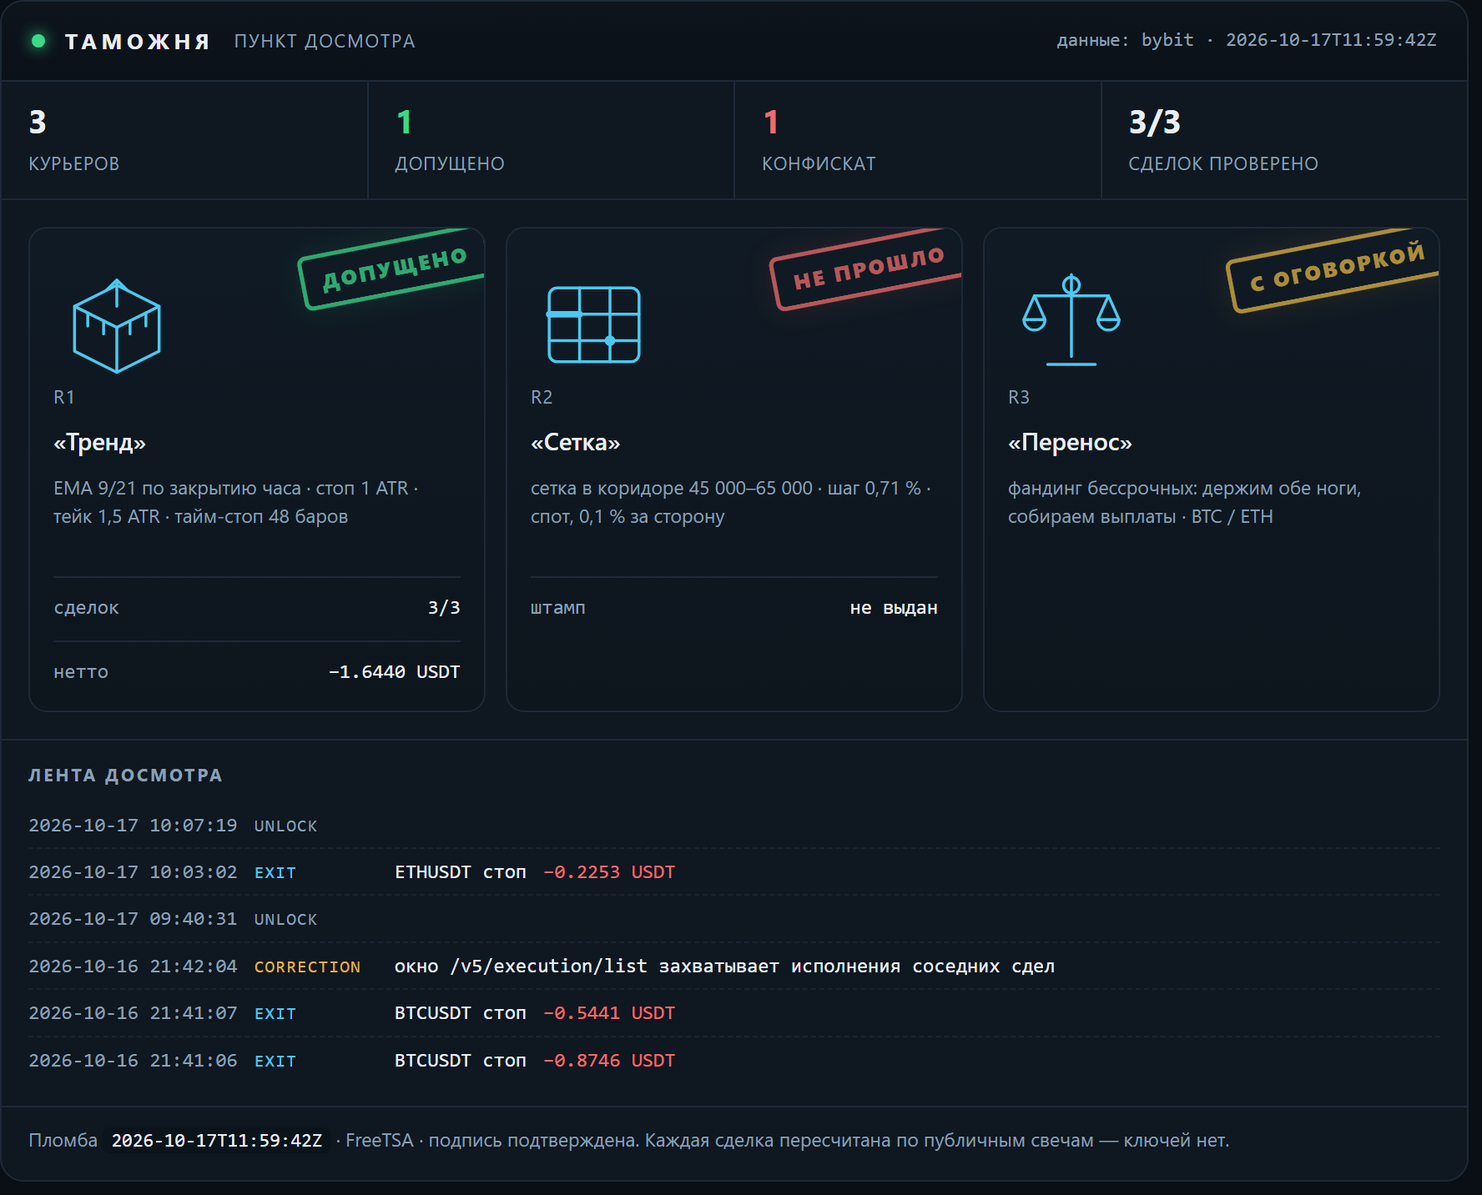
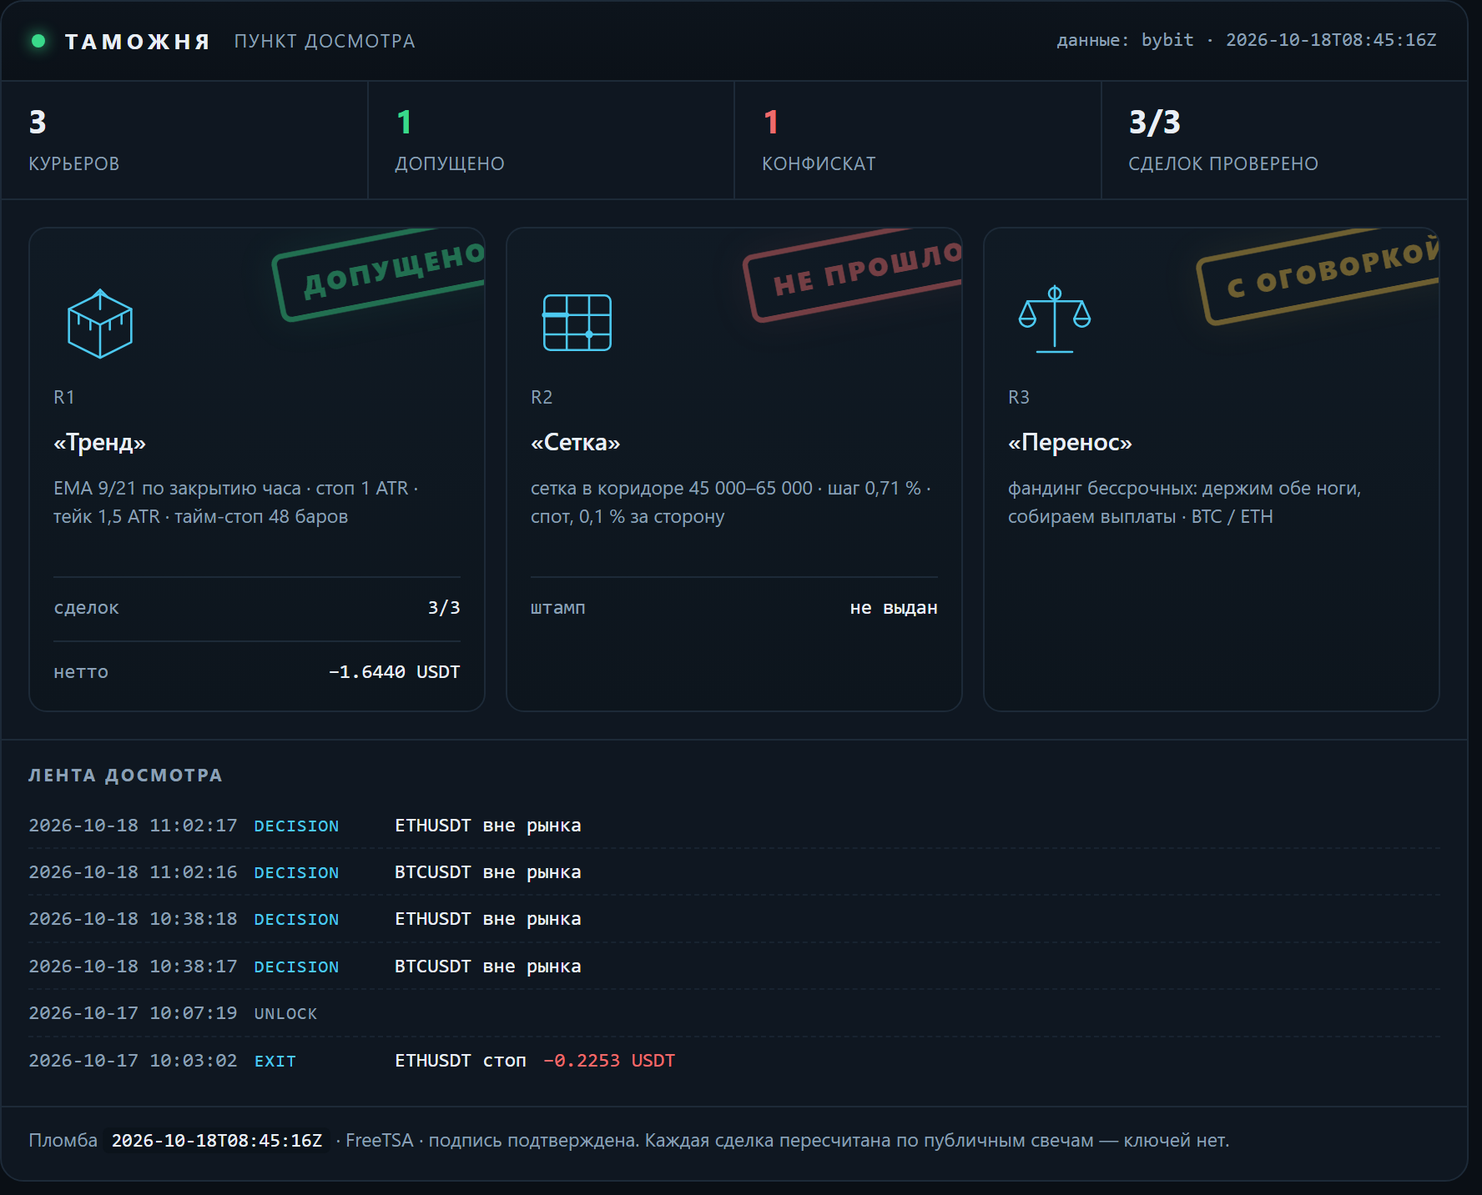
lab: таможня — свежие числа досмотра

diff --git a/docs/customs.html b/docs/customs.html
@@ -16,7 +16,7 @@
   <h1><a href="index.html">Gramwright Lab</a></h1>
   <p>Журнал проверки торговых гипотез: что проверяли, что вышло по факту, сколько съели издержки. Числа берутся из журнала стенда. Не инвестиционная рекомендация.</p>
 </header>
-<h1>Таможня</h1><p class="intro">Пункт досмотра заявленных результатов. Стратегии приезжают с грузом обещаний, и каждая проходит проверку по публичным данным биржи: цены существуют, комиссии по тарифу, нетто сходится. Что прошло — получает штамп. Что не прошло — в конфискат, с причиной. Штамп означает «записи подлинные», а не «стратегия прибыльна».</p><p><img src="img/customs.png" alt="Терминал досмотра: три курьера, штампы, лента событий" style="width:100%;height:auto;border:1px solid var(--line);border-radius:10px"></p><p class="c-note">Сверху — тот же терминал, что собирается из журналов: счётчики, эмблемы курьеров, штампы и лента последних событий. Ниже — то же самое текстом, чтобы читалось с телефона и индексировалось поиском.</p><article><h2>R1 «Тренд» <span class="verdict">— <span class="c-ok">допущено</span></span></h2><p><strong>Правило:</strong> EMA 9/21 по закрытию часа · стоп 1 ATR · тейк 1,5 ATR · тайм-стоп 48 баров</p><p><strong>Декларация:</strong> Заявлено до прогона: держать 30 сделок, лимит нотионала 10 % от счёта, стоп дня −1 %. Прибыль не заявлялась — это важно: курьер не обещал доход.</p><p><strong>Проверено по публичным свечам, без ключей:</strong> 3 из 3 сделок. Сумма нетто −1.6440 USDT.</p><ul class="c-chk"><li class="y">BTCUSDT: нетто −0.8746 USDT · комиссии 0.0901 · проверено · с поправкой</li><li class="y">BTCUSDT: нетто −0.5441 USDT · комиссии 0.0896 · проверено</li><li class="y">ETHUSDT: нетто −0.2253 USDT · комиссии 0.0266 · проверено</li></ul><p class="tags">журнал sha256 d5428174df17a566… · проверяльщик verify-1</p><p class="c-note">Штамп означает: записи подлинные, а не что стратегия прибыльна. Курьер в минусе, и минус тоже стоит на штампе — иначе это была бы не проверка, а реклама.</p><p class="tags">источник: verify-report.json</p></article><article><h2>R2 «Сетка» <span class="verdict">— <span class="c-bad">не прошло</span></span></h2><p><strong>Правило:</strong> сетка в коридоре 45 000–65 000 · шаг 0,71 % · спот, 0,1 % за сторону</p><p><strong>Декларация:</strong> Заявлено: «44 % урожая уходит бирже в виде комиссий». Кроме того — перевес над простым владением монетой.</p><p><strong>Что сошлось:</strong></p><ul class="c-chk"><li class="y">сами числа пересчитаны и воспроизводятся: коридор 45–65k был активен 23 % всей истории и 28 % последних двух лет</li></ul><p><strong>Что не сошлось:</strong></p><ul class="c-chk"><li class="n">44 % не подтвердилось: при шаге 0,71 % и тарифе 0,1 % комиссия съедает 28,3 % шага. Чтобы получить 44 %, нужен шаг 0,45 % — это около 80 уровней, а не 50</li><li class="n">от урожая доля комиссий 85,5 % за всю историю и 49,6 % за последние два года — тоже не 44 %</li><li class="n">перевес над владением посчитан на тарифе 0,055 %: при нём +1,32 п. п., на розничном 0,1 % — −0,72 п. п. То есть перевес исчезает</li><li class="n">семилетний тест стартовал в сентябре 2019 при биткоине около 10 000 — ниже коридора. Он говорит, что фиксированный коридор не подходит для периода, а не что сетка отстаёт</li></ul><p class="tags">источник: lab_grid.py, пересчёт 17.10.2026</p></article><article><h2>R3 «Перенос» <span class="verdict">— <span class="c-warn">с оговоркой</span></span></h2><p><strong>Правило:</strong> фандинг бессрочных: держим обе ноги, собираем выплаты · BTC / ETH</p><p><strong>Декларация:</strong> Заявлено: около 11,9 % в год от выплат фандинга при просадке выплатной кривой меньше 2 %.</p><p><strong>Что сошлось:</strong></p><ul class="c-chk"><li class="y">выплаты взяты из публичной истории биржи, ключей не нужно: BTC — 7 190 выплат с 25.03.2020, ETH — 6 561 с 21.10.2020</li><li class="y">сумма сходится: +83,4 % и +83,2 % за 6,6 и 6,0 года — те самые ~11,9 % в год</li><li class="y">худшая просадка выплатной кривой: −1,65 % и −1,97 %</li></ul><p><strong>Что не сошлось:</strong></p><ul class="c-chk"><li class="n">оговорка 1: премию сжали — 2021 год дал +38,3 %, 2026 — +1,96 %. Прошлое не повторяется</li><li class="n">оговорка 2: вход-выход стоит около 0,31 %, капитала нужно 1,2 от нотионала, текущий базис −0,082 % против входа</li><li class="n">оговорка 3: риск площадки. История FTX в этой же таблице выглядела так же прилично</li></ul><p class="tags">источник: публичная история фандинга Bybit, замер 17.10.2026</p></article><div class="c-conf"><h3>Конфискат</h3><p><strong>«Сетка»: заявленные 44 % комиссий не подтвердились.</strong> Досмотр показал 28,3 % от шага и 85,5 % от урожая — цифра хуже заявленной по форме, но лучше по смыслу: сетку убивает не размер шага, а то, что урожай почти весь уходит в комиссии. Это и вышло в выпуск — с поправкой, а не с красивой цифрой.</p></div><p class="c-note">Пломба: <code>2026-10-17T11:59:42Z</code> · нотариус FreeTSA · Oct 17 11:59:42 2026 GMT · подпись подтверждена. Манифест скрепляет отчёт проверки, журнал сделок и декларации курьеров: подменишь любую цифру — пломба перестанет сходиться.</p><p class="c-note">Досмотр идёт по публичным минутным свечам и публичной истории фандинга — ключей у проверяющего нет, и он может повторить проверку сам.</p><p class="c-note">Контент образовательный, не является инвестиционной рекомендацией. Торговля связана с риском потери капитала.</p>
+<h1>Таможня</h1><p class="intro">Пункт досмотра заявленных результатов. Стратегии приезжают с грузом обещаний, и каждая проходит проверку по публичным данным биржи: цены существуют, комиссии по тарифу, нетто сходится. Что прошло — получает штамп. Что не прошло — в конфискат, с причиной. Штамп означает «записи подлинные», а не «стратегия прибыльна».</p><p><img src="img/customs.png" alt="Терминал досмотра: три курьера, штампы, лента событий" style="width:100%;height:auto;border:1px solid var(--line);border-radius:10px"></p><p class="c-note">Сверху — тот же терминал, что собирается из журналов: счётчики, эмблемы курьеров, штампы и лента последних событий. Ниже — то же самое текстом, чтобы читалось с телефона и индексировалось поиском.</p><article><h2>R1 «Тренд» <span class="verdict">— <span class="c-ok">допущено</span></span></h2><p><strong>Правило:</strong> EMA 9/21 по закрытию часа · стоп 1 ATR · тейк 1,5 ATR · тайм-стоп 48 баров</p><p><strong>Декларация:</strong> Заявлено до прогона: держать 30 сделок, лимит нотионала 10 % от счёта, стоп дня −1 %. Прибыль не заявлялась — это важно: курьер не обещал доход.</p><p><strong>Проверено по публичным свечам, без ключей:</strong> 3 из 3 сделок. Сумма нетто −1.6440 USDT.</p><ul class="c-chk"><li class="y">BTCUSDT: нетто −0.8746 USDT · комиссии 0.0901 · проверено · с поправкой</li><li class="y">BTCUSDT: нетто −0.5441 USDT · комиссии 0.0896 · проверено</li><li class="y">ETHUSDT: нетто −0.2253 USDT · комиссии 0.0266 · проверено</li></ul><p class="tags">журнал sha256 6bc509b0d2b09833… · проверяльщик verify-1</p><p class="c-note">Штамп означает: записи подлинные, а не что стратегия прибыльна. Курьер в минусе, и минус тоже стоит на штампе — иначе это была бы не проверка, а реклама.</p><p class="tags">источник: verify-report.json</p></article><article><h2>R2 «Сетка» <span class="verdict">— <span class="c-bad">не прошло</span></span></h2><p><strong>Правило:</strong> сетка в коридоре 45 000–65 000 · шаг 0,71 % · спот, 0,1 % за сторону</p><p><strong>Декларация:</strong> Заявлено: «44 % урожая уходит бирже в виде комиссий». Кроме того — перевес над простым владением монетой.</p><p><strong>Что сошлось:</strong></p><ul class="c-chk"><li class="y">сами числа пересчитаны и воспроизводятся: коридор 45–65k был активен 23 % всей истории и 28 % последних двух лет</li></ul><p><strong>Что не сошлось:</strong></p><ul class="c-chk"><li class="n">44 % не подтвердилось: при шаге 0,71 % и тарифе 0,1 % комиссия съедает 28,3 % шага. Чтобы получить 44 %, нужен шаг 0,45 % — это около 80 уровней, а не 50</li><li class="n">от урожая доля комиссий 85,5 % за всю историю и 49,6 % за последние два года — тоже не 44 %</li><li class="n">перевес над владением посчитан на тарифе 0,055 %: при нём +1,32 п. п., на розничном 0,1 % — −0,72 п. п. То есть перевес исчезает</li><li class="n">семилетний тест стартовал в сентябре 2019 при биткоине около 10 000 — ниже коридора. Он говорит, что фиксированный коридор не подходит для периода, а не что сетка отстаёт</li></ul><p class="tags">источник: lab_grid.py, пересчёт 17.10.2026</p></article><article><h2>R3 «Перенос» <span class="verdict">— <span class="c-warn">с оговоркой</span></span></h2><p><strong>Правило:</strong> фандинг бессрочных: держим обе ноги, собираем выплаты · BTC / ETH</p><p><strong>Декларация:</strong> Заявлено: около 11,9 % в год от выплат фандинга при просадке выплатной кривой меньше 2 %.</p><p><strong>Что сошлось:</strong></p><ul class="c-chk"><li class="y">выплаты взяты из публичной истории биржи, ключей не нужно: BTC — 7 190 выплат с 25.03.2020, ETH — 6 561 с 21.10.2020</li><li class="y">сумма сходится: +83,4 % и +83,2 % за 6,6 и 6,0 года — те самые ~11,9 % в год</li><li class="y">худшая просадка выплатной кривой: −1,65 % и −1,97 %</li></ul><p><strong>Что не сошлось:</strong></p><ul class="c-chk"><li class="n">оговорка 1: премию сжали — 2021 год дал +38,3 %, 2026 — +1,96 %. Прошлое не повторяется</li><li class="n">оговорка 2: вход-выход стоит около 0,31 %, капитала нужно 1,2 от нотионала, текущий базис −0,082 % против входа</li><li class="n">оговорка 3: риск площадки. История FTX в этой же таблице выглядела так же прилично</li></ul><p class="tags">источник: публичная история фандинга Bybit, замер 17.10.2026</p></article><div class="c-conf"><h3>Конфискат</h3><p><strong>«Сетка»: заявленные 44 % комиссий не подтвердились.</strong> Досмотр показал 28,3 % от шага и 85,5 % от урожая — цифра хуже заявленной по форме, но лучше по смыслу: сетку убивает не размер шага, а то, что урожай почти весь уходит в комиссии. Это и вышло в выпуск — с поправкой, а не с красивой цифрой.</p></div><p class="c-note">Пломба: <code>2026-10-18T08:45:16Z</code> · нотариус FreeTSA · Oct 18 08:45:16 2026 GMT · подпись подтверждена. Манифест скрепляет отчёт проверки, журнал сделок и декларации курьеров: подменишь любую цифру — пломба перестанет сходиться.</p><p class="c-note">Досмотр идёт по публичным минутным свечам и публичной истории фандинга — ключей у проверяющего нет, и он может повторить проверку сам.</p><p class="c-note">Контент образовательный, не является инвестиционной рекомендацией. Торговля связана с риском потери капитала.</p>
 <footer class="site">
   Код стенда и аудитора: <a href="https://github.com/XSlaidx/truth-engine">XSlaidx/truth-engine</a>
   &middot; <a href="graveyard.html">кладбище правил</a>
